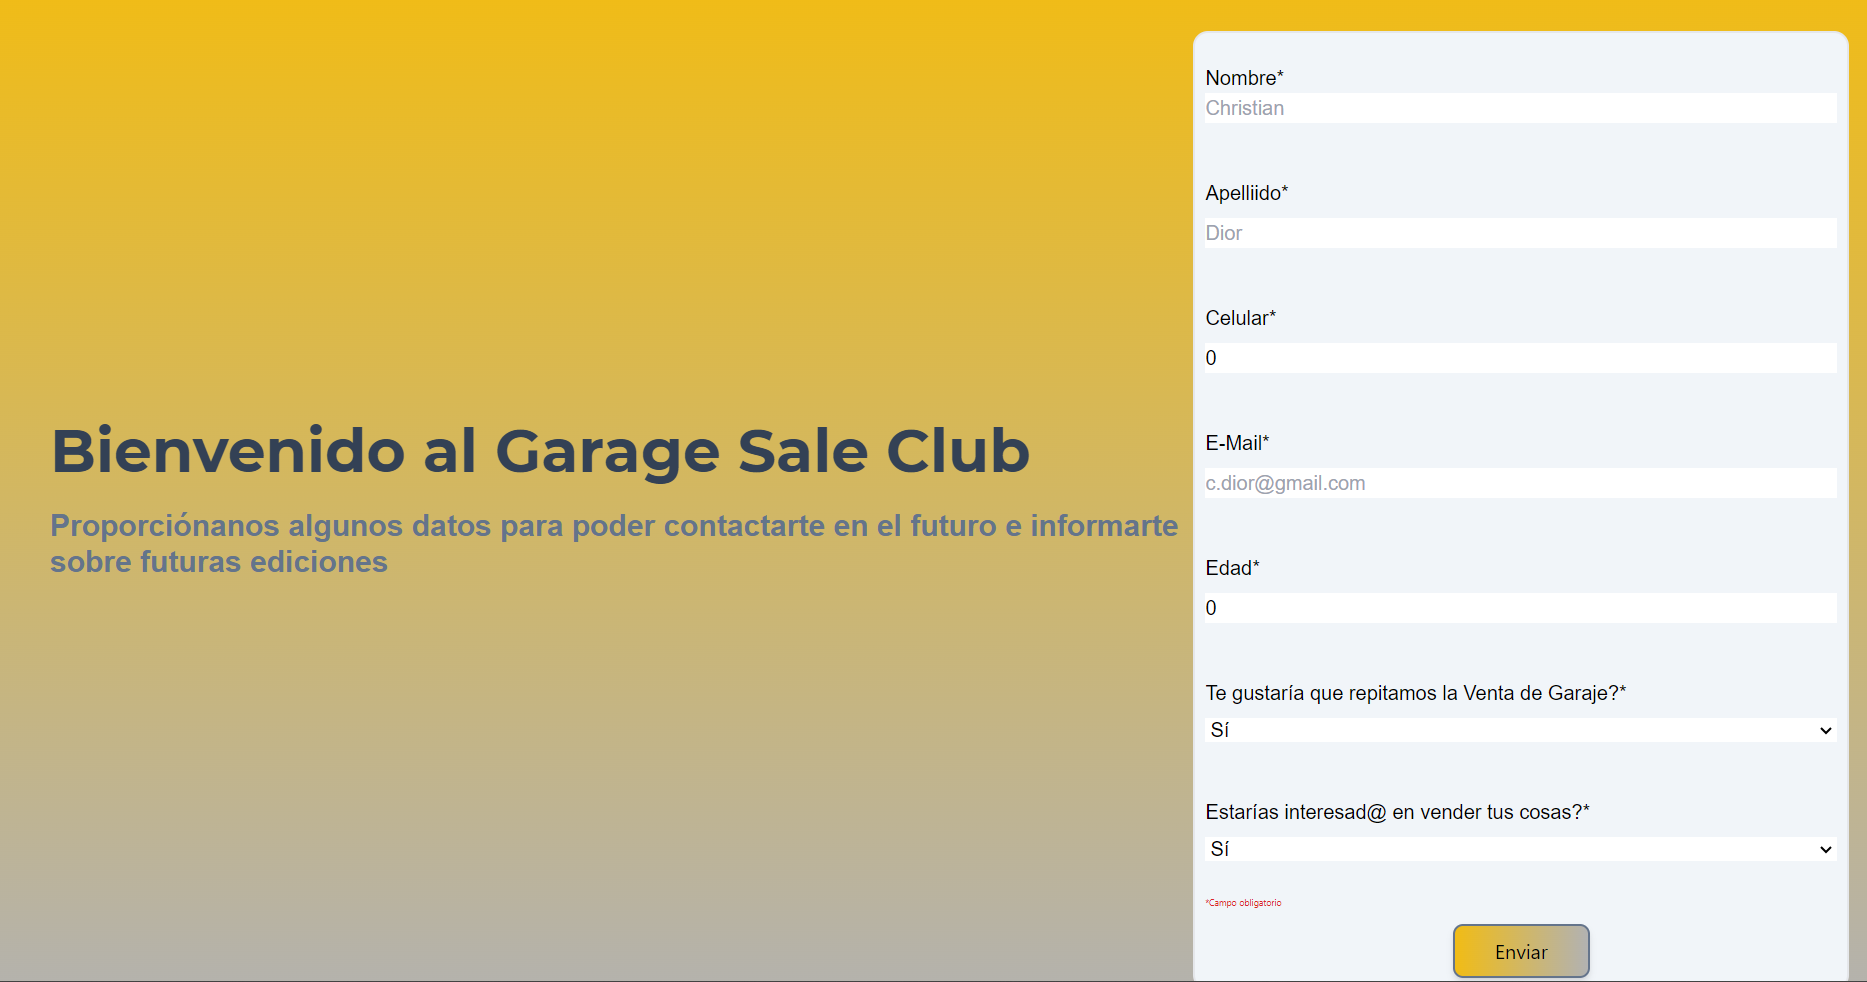
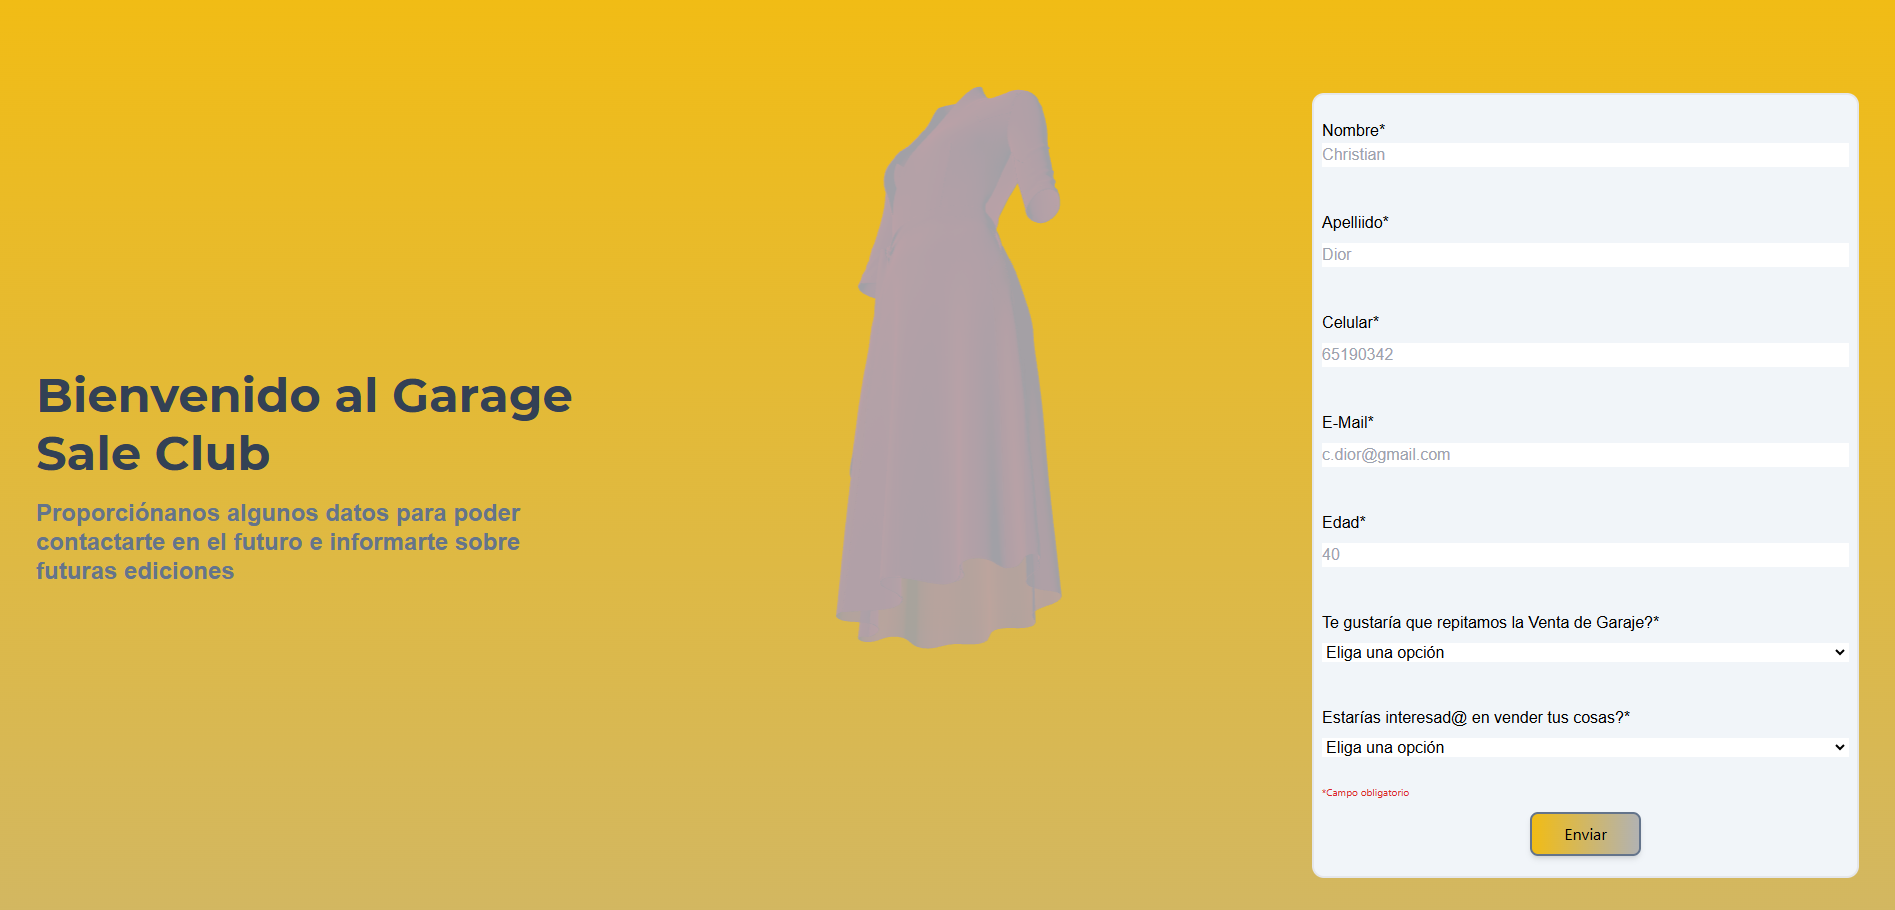
Added latest backend project

diff --git a/src/constants/index.js b/src/constants/index.js
@@ -32,7 +32,8 @@ import {
     tripguide,
     threejs,
     nikeWebsite,
-    garageSaleClub
+    garageSaleClub,
+    jobsBank
   } from "../assets";
   
   export const navLinks = [
@@ -251,10 +252,36 @@ import {
           name: "tailwind",
           color: "pink-text-gradient",
         },
+        {
+          name: "React Three Fiber/React Three Drei",
+          color: "violet-text-gradient",
+        }
       ],
       image: garageSaleClub,
       source_code_link: "https://garage-sale-lpz.onrender.com/",
       github_page: 'https://github.com/Juanpibazan/garage-sale-frontend'
+    },
+    {
+      name: "Bank of Jobs",
+      description:
+        "A REST API built using NodeJS, Express with JWT authentication and different endpoints that save/read data to/from the MySQL server. Both (REST API and MySQL) are hosted on the same Hostinger VPS. I configured the linux VPS from 0, installing NodeJS, MySQL and pm2 so the NodeJS server can continue running even if I exit ssh session. Swagger Documentation is present for anyone who wants to consume the REST API.",
+      tags: [
+        {
+          name: "NodeJS",
+          color: "blue-text-gradient",
+        },
+        {
+          name: "Express",
+          color: "pink-text-gradient",
+        },
+        {
+          name: "Swagger",
+          color: "green-text-gradient",
+        },
+      ],
+      image: jobsBank,
+      source_code_link: "http://uxminer.com:4000/docs/",
+      github_page: 'https://github.com/Juanpibazan/banco_trabajos_backend'
     }
     /*,{
       name: "Trip Guide",

diff --git a/src/assets/index.js b/src/assets/index.js
@@ -41,6 +41,7 @@ import jobit from "./jobit.png";
 import tripguide from "./tripguide.png";
 import nikeWebsite from './shoes-website.png';
 import garageSaleClub from './garage-sale-club.png';
+import jobsBank from './uxminer-job-bank.png';
 
 export {
   logo,
@@ -82,5 +83,6 @@ export {
   jobit,
   tripguide,
   nikeWebsite,
-  garageSaleClub
+  garageSaleClub,
+  jobsBank
 };
